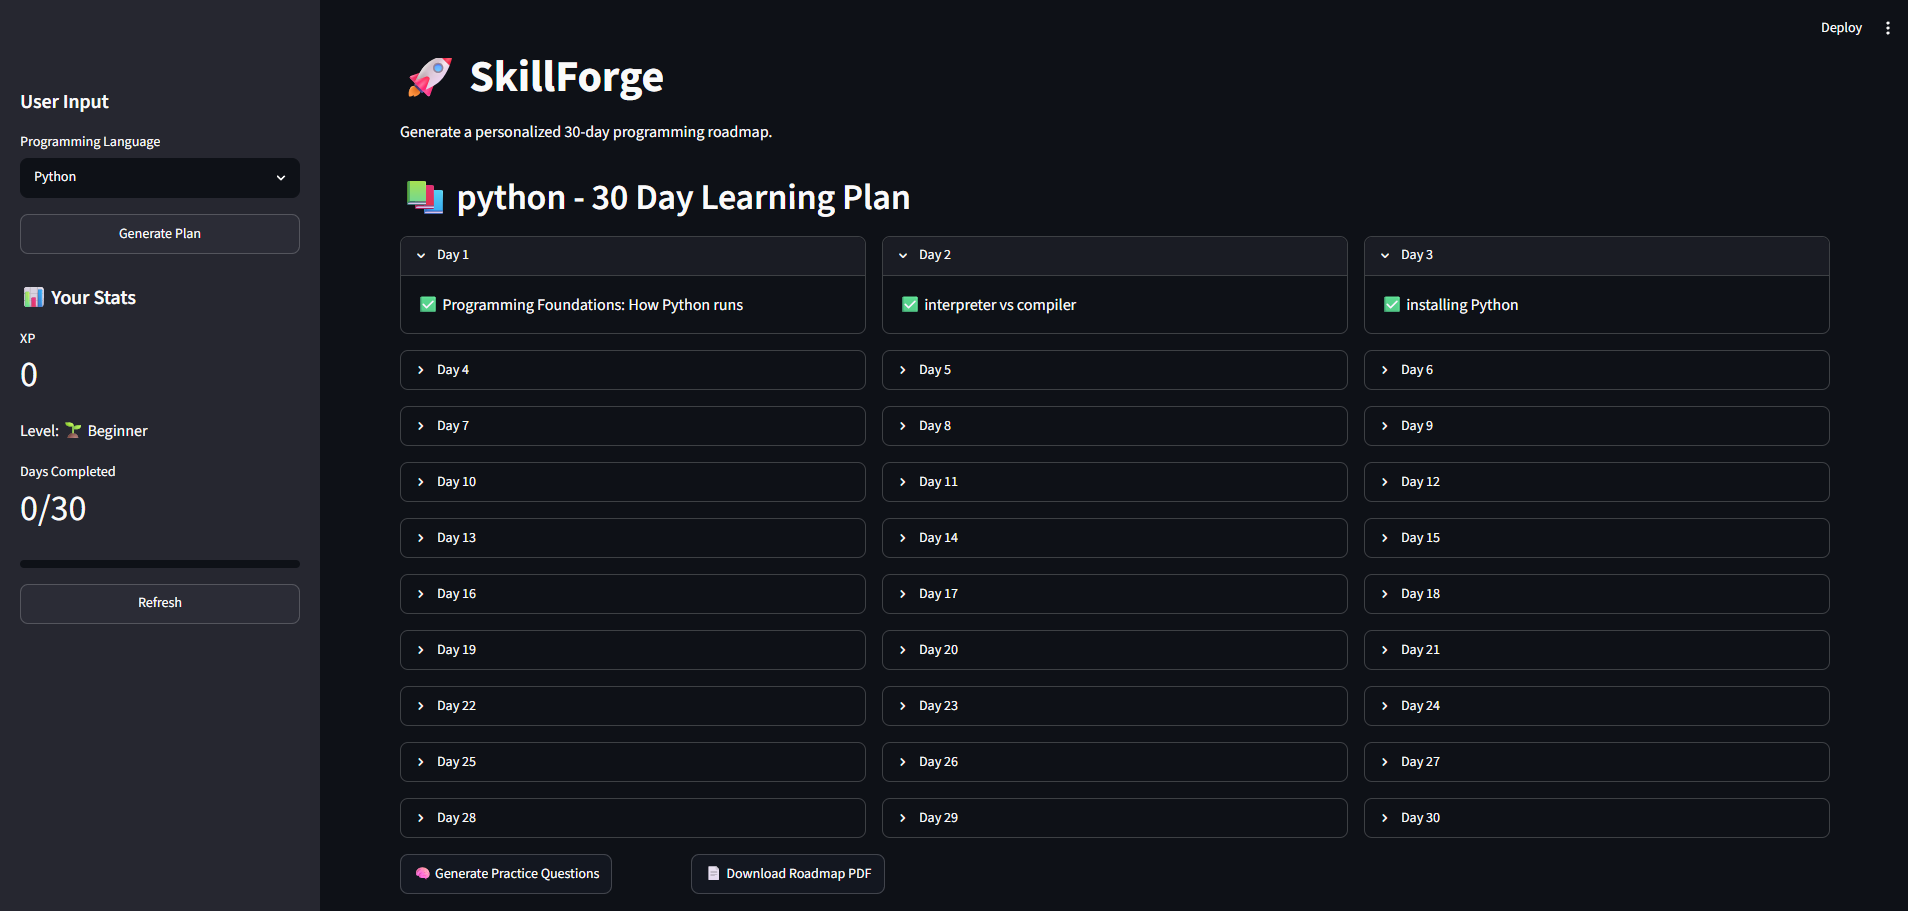
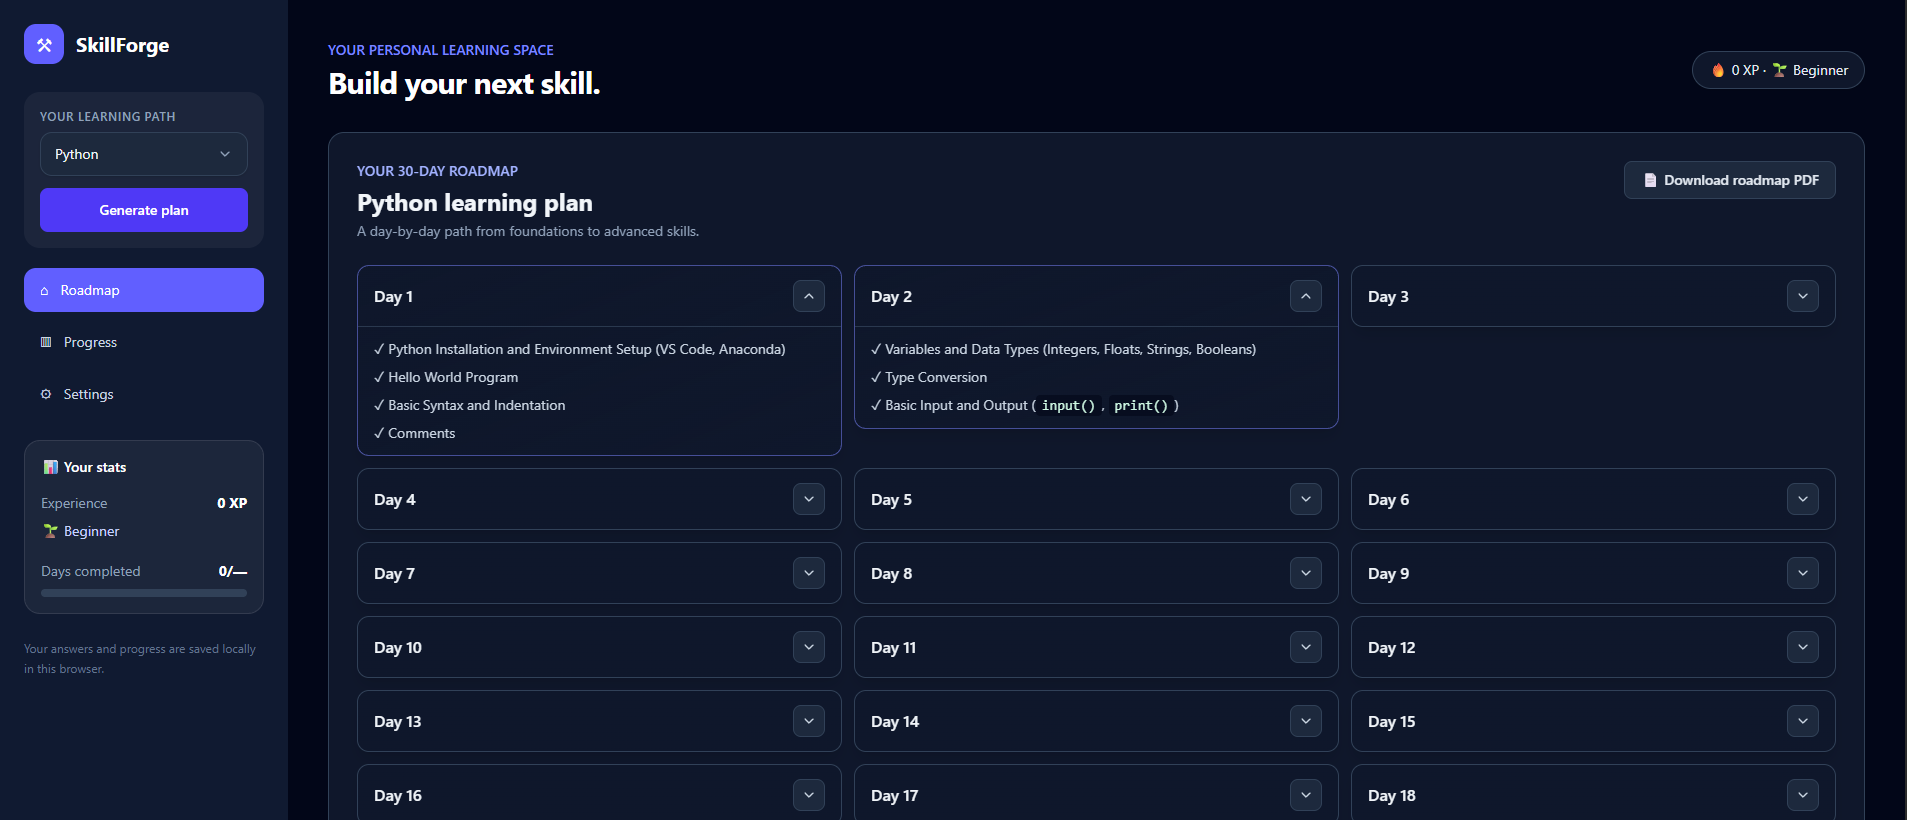
update screenshots and readme

diff --git a/README.md b/README.md
@@ -1,25 +1,310 @@
-# SkillForge
+# 🚀 SkillForge – AI Powered 30-Day Coding Learning Platform
 
-SkillForge is a React + TypeScript learning application backed by a Python API. It uses a local OpenAI-compatible model through LM Studio by default, and can also use Google Gemini. Either provider generates roadmaps, practice questions, answer feedback, and hints.
+---
 
-## Run locally
+## 📌 Short Description
 
-1. Install Python dependencies with `pip install -r requirements.txt`.
-2. Install frontend dependencies with `cd frontend && npm ci`.
-3. In LM Studio, load `qwen2.5-coder-7b-instruct` and start the local server on `http://localhost:1234`.
-4. Add `GEMINI_API_KEY` to the root `.env` only if you want to use Gemini.
-5. Start the API from the repository root: `uvicorn main:app --app-dir src --reload`.
-6. Start Vite in another terminal: `cd frontend && npm run dev`.
+SkillForge is an interactive AI-powered coding practice platform built with Streamlit. It generates a personalized 30-day learning roadmap, provides coding practice questions, and evaluates user answers using Google Gemini 2.5 Flash.
 
-Vite proxies `/api` requests to `http://localhost:8000`. Use **Settings → AI provider** to switch between Local (LM Studio) and Gemini. The choice is saved in browser local storage. The production Docker image builds the frontend and serves it from the same FastAPI process on port 8000. For Docker, set `LOCAL_AI_BASE_URL` to an address reachable from the container if LM Studio is running on the host.
+---
 
-## API
+## 🌐 Website Demo Link
 
-- `POST /api/roadmap` — generate and validate a 30-day language plan.
-- `POST /api/practice` — generate coding exercises for a plan.
-- `POST /api/evaluate` — evaluate a code submission.
-- `POST /api/hint` — generate a level 1 or level 2 hint.
-- `POST /api/gamification/completion` and `/api/gamification/level` — apply existing XP and level rules.
-- `POST /api/roadmap/pdf` — create a PDF from the displayed plan.
+### ⚠ Note
 
-The frontend stores learning progress, theme, and AI-provider preference in browser local storage. Gemini generation requires a valid `GEMINI_API_KEY`. Local generation uses `LOCAL_AI_BASE_URL` and `LOCAL_AI_MODEL`, which default to the LM Studio URL and model above.
+SkillForge uses Large Language Models (LLMs) to dynamically generate personalized learning roadmaps, practice questions, hints, and code evaluation feedback.
+
+Because the content is generated in real time, some actions (such as roadmap generation and practice question generation) may take a few seconds to complete. This is expected behavior while the AI processes your request.
+
+Please be patient during generation and avoid repeatedly clicking buttons while content is being created.
+
+### 🔗 Demo Access
+
+If a live demo of the web app is available, the access link will be provided in the **GitHub repository “About” section (top-right side of the repository page)**.
+
+If no link is shown in the About section, it means the live version is currently not deployed or temporarily unavailable.
+
+The full source code and setup instructions are still available in this repository for local execution.
+
+---
+
+## 🧠 What This Project Does
+
+SkillForge transforms a static learning roadmap into an interactive coding experience:
+
+- Users select a programming language (Python, JavaScript, Java, C++, Go)
+- The system generates a **30-day structured learning plan**
+- Each day contains topics and coding exercises
+- Users solve coding problems directly in the browser using an embedded editor
+- AI evaluates answers and returns:
+  - Correct / Incorrect feedback
+  - Explanation and fix suggestions
+- Users earn **XP points** for correct answers
+- A gamified system tracks:
+  - Completed days
+  - Progress across the 30-day roadmap
+- Users can request:
+  - AI-generated practice questions per day
+  - Hints (with XP penalty for advanced hints)
+- A downloadable **PDF roadmap** is generated for offline use
+
+---
+
+## 🐍 How Python is Used
+
+Python is the core engine of SkillForge:
+
+### 🔹 Backend Logic
+
+- Handles roadmap generation and transformation
+- Parses and validates AI-generated JSON responses
+- Manages user progress and scoring logic
+
+### 🔹 Streamlit UI
+
+- Builds interactive web interface
+- Uses buttons, selectboxes, expanders, and layout columns
+- Displays real-time feedback and progress updates
+
+### 🔹 Session State Management
+
+- `st.session_state` is used to persist:
+  - XP system
+  - Completed days
+  - Practice question results
+  - Generated roadmap
+  - Achievements and hints
+
+### 🔹 AI Integration
+
+- Uses the **Google Gemini API**
+- Model used: **Gemini 2.5 Flash**
+- Responsible for:
+  - Roadmap generation
+  - Code evaluation
+  - Hint generation
+  - Practice question creation
+
+---
+
+## 🧩 Challenges Faced, Solutions & Learnings
+
+During the development of this project, one of the main challenges was connecting the backend logic with the Streamlit frontend. Since this was my first time building a full application using Streamlit, it initially took some time to understand how Streamlit’s execution model and `session_state` work together to manage dynamic UI updates and persistent data.
+
+Another difficulty was adapting certain features to fit within Streamlit’s limitations, especially around real-time updates, state persistence, and interactive components. Instead of forcing traditional frontend patterns, I had to rethink and redesign parts of the application to align with Streamlit’s reactive nature.
+
+### 🛠 How I solved it
+
+I solved these issues by designing the application architecture around Streamlit’s constraints rather than against them. This included:
+
+- Relying heavily on `st.session_state` for persistent data flow
+- Structuring UI updates to work with Streamlit’s rerun behavior
+- Breaking features into modular logic that fits Streamlit’s execution cycle
+- Iteratively testing and adjusting interactions to behave as expected in a reactive environment
+
+### 📚 What I learned
+
+This project helped me gain strong practical experience with Streamlit and reactive Python-based UI development. I learned how to quickly build and ship full-stack prototypes using only Python, and how to design applications that work naturally within Streamlit’s architecture.
+
+Most importantly, I discovered how powerful Streamlit can be for rapidly turning backend logic into a functional and interactive frontend, which will significantly speed up my future projects and prototyping workflows.
+
+---
+
+### 🤖 Prompt Engineering & LLM Reliability
+
+This project relies on **Google Gemini 2.5 Flash** for generating structured learning plans, practice questions, code evaluation, and hints.
+
+To ensure consistent and reliable outputs, significant prompt engineering was required. The model was guided using strict system prompts that enforce:
+
+- Structured JSON outputs for roadmap and practice generation
+- Strict language consistency based on selected programming language
+- Controlled difficulty progression (beginner → advanced)
+- Anti-hallucination constraints to prevent introduction of external topics
+- Validation-friendly response formats for downstream parsing in Python
+
+Additionally, fallback parsing and retry mechanisms were implemented to handle occasional malformed outputs and ensure robustness in production usage.
+
+This approach allowed the LLM to behave like a structured curriculum engine rather than a free-form text generator.
+
+---
+
+## 🖼 Screenshots
+
+![Main Page](/Screenshots/Screenshot1.png)
+![Correct Answer Page](/Screenshots/Screenshot2.png)
+![Day Completed Page](/Screenshots/Screenshot3.png)
+![Progress Page](/Screenshots/Screenshot4.png)
+![Settings Page](/Screenshots/Screenshot5.png)
+
+---
+
+## ⚙ Key Features
+
+### 🎯 AI-Generated Learning Roadmap
+
+- Generates a structured 30-day coding plan per language
+
+### 💻 Interactive Coding Environment
+
+- Built-in code editor using `streamlit-ace`
+
+### 🤖 AI Code Evaluation
+
+- Checks correctness of user solutions using Gemini 2.5 Flash
+
+### 🧠 Practice Question Generator
+
+- Generates structured coding exercises per day/topic
+
+### 💡 Hint System
+
+- Multi-level AI hints
+- XP penalty system for advanced hints
+
+### 🏆 Gamification System
+
+- XP points for correct answers
+- Day completion tracking
+- Achievement triggers (first completion and final day)
+
+### 📊 Progress Tracking
+
+- Tracks completed days
+- Displays XP level progression
+
+### 📄 PDF Export
+
+- Generates downloadable roadmap PDF using ReportLab
+
+---
+
+### 🏆 XP Rewards
+
+| Action                                                            |           XP |
+| ----------------------------------------------------------------- | -----------: |
+| Correctly solve a coding question                                 |       +10 XP |
+| Complete the first practice day (First Completion Achievement)    | +10 XP Bonus |
+| Complete Day 30 as the 30th completed day (Final Day Achievement) | +50 XP Bonus |
+
+### 💡 XP Costs
+
+| Action                                        | XP Cost |
+| --------------------------------------------- | ------: |
+| Use Hint 2 (Advanced Hint, once per question) |   -5 XP |
+
+### 📈 Level Progression
+
+| Level                |  XP Required |
+| -------------------- | -----------: |
+| 🌱 Beginner          |    0 - 99 XP |
+| ⚡ Apprentice        | 100 - 299 XP |
+| 🔥 Intermediate      | 300 - 599 XP |
+| 🚀 Advanced          | 600 - 999 XP |
+| 👑 SkillForge Master |     1000+ XP |
+
+### 🎯 Progress Tracking
+
+Users earn XP by solving coding challenges and completing roadmap milestones. Progress is tracked throughout the learning journey and reflected in the sidebar dashboard, which displays:
+
+- Current XP
+- Current Level
+- Days Completed
+- Overall Roadmap Progress
+
+---
+
+## ▶ How to Run
+
+### Option 1 — Run Locally
+
+#### 1. Clone the repository
+
+```bash
+git clone https://github.com/<your-username>/SkillForge.git
+cd SkillForge
+```
+
+SkillForge requires Python 3.12 or newer.
+
+#### 2. Install dependencies
+
+```bash
+pip install -r requirements.txt
+```
+
+#### 3. Create a `.env` file
+
+```env
+GEMINI_API_KEY=your_api_key_here
+```
+
+#### 4. Start the Streamlit app
+
+```bash
+streamlit run src/main.py
+```
+
+---
+
+### Option 2 — Run with Docker (Recommended)
+
+#### 1. Create a `.env` file
+
+```env
+GEMINI_API_KEY=your_api_key_here
+```
+
+#### 2. Build and start the application
+
+```bash
+docker compose up --build
+```
+
+The application will be available at:
+
+```
+http://localhost:8501
+```
+
+---
+
+## 🧪 Testing & Code Quality
+
+The offline unit tests do not call Gemini. Install the optional development tools, then run the checks from the project root:
+
+```bash
+pip install pytest ruff
+pytest
+ruff check .
+```
+
+---
+
+## ⚠ Important Notes
+
+- This project uses the **Google Gemini API (Gemini 2.5 Flash)** for AI-powered features.
+- A valid `GEMINI_API_KEY` is required to run the application.
+- Session state is heavily used for persistence
+- All progress is stored only during runtime (no database yet)
+
+---
+
+## 🏆 Project Highlights
+
+- Fully AI-driven learning system
+- Gamified coding practice environment
+- Powered by Google Gemini 2.5 Flash
+- Real-time evaluation + feedback loop
+- 30-day structured learning system
+
+---
+
+## 👤 Author
+
+Built and maintained by [@Jienniers](https://github.com/Jienniers)
+
+---
+
+Stay tuned for updates and releases of **SkillForge**!
+
+Feel free to ⭐ the repository if you find it useful!
